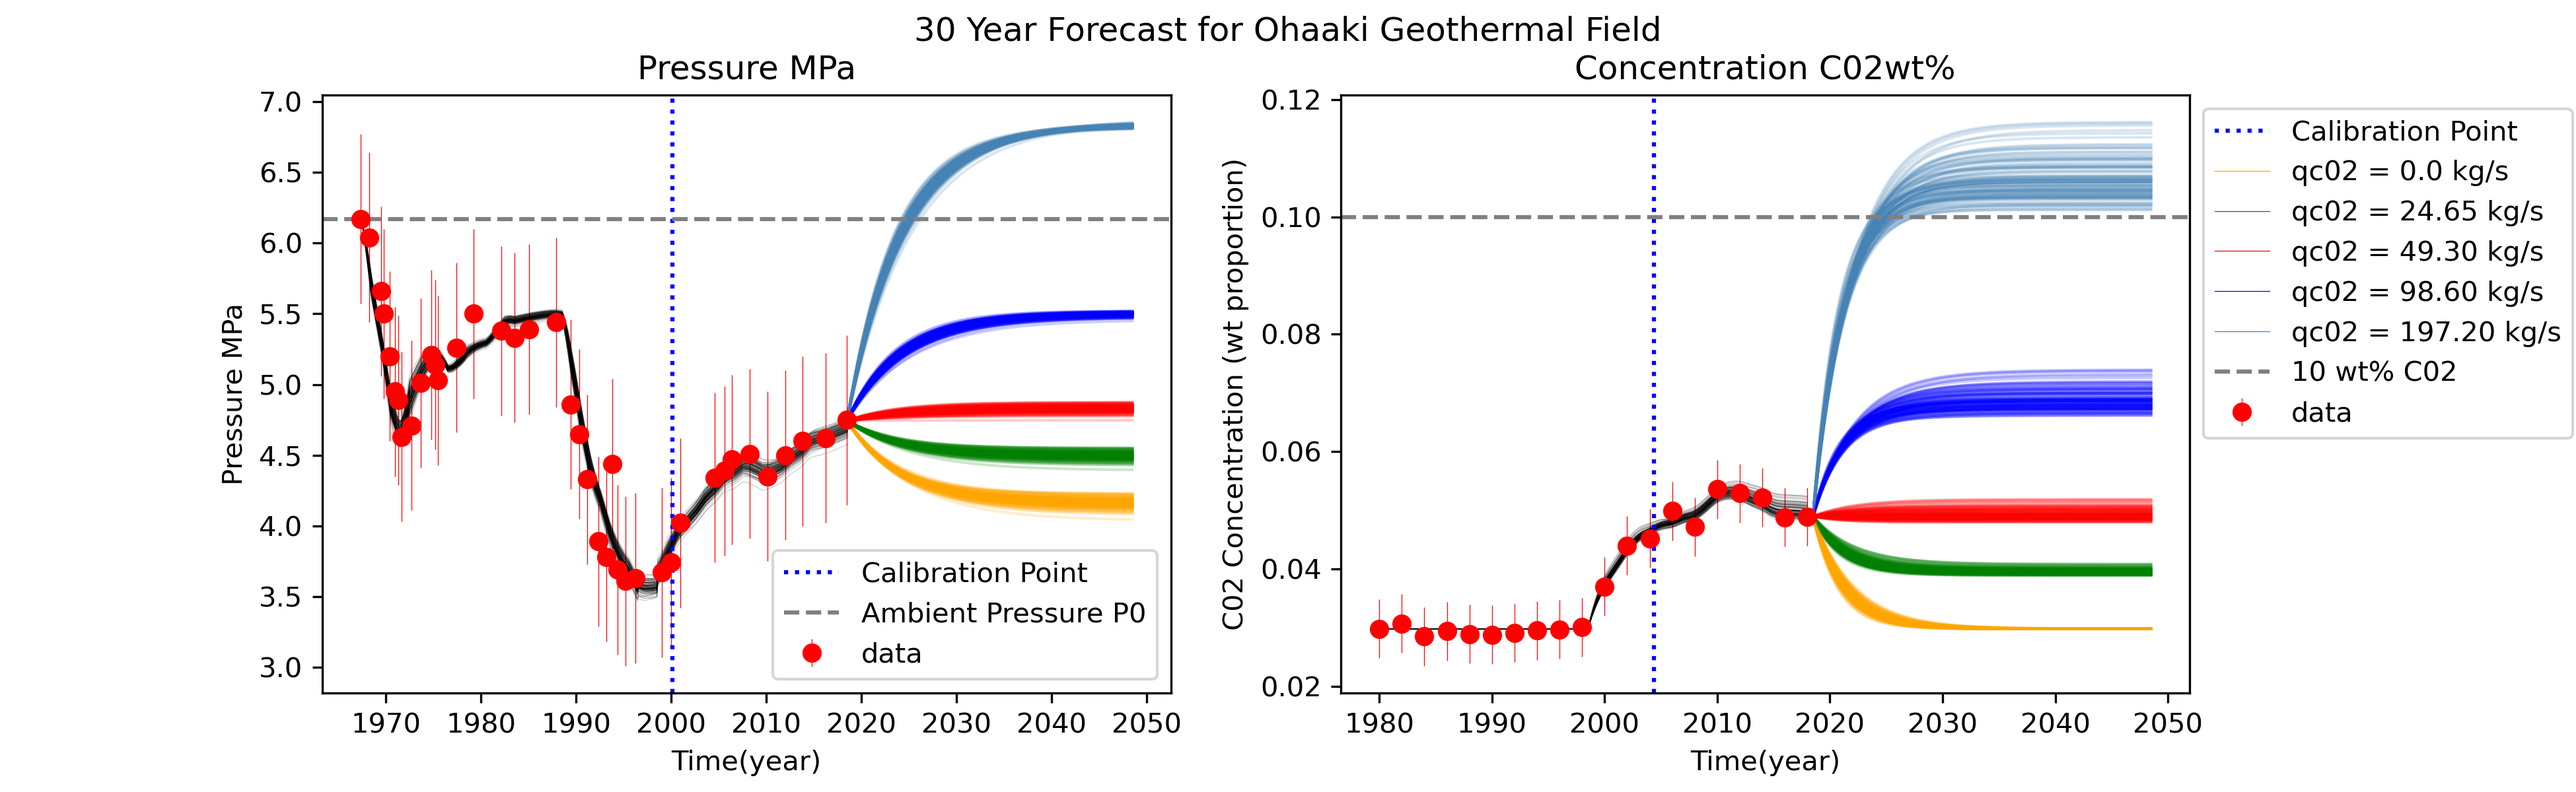
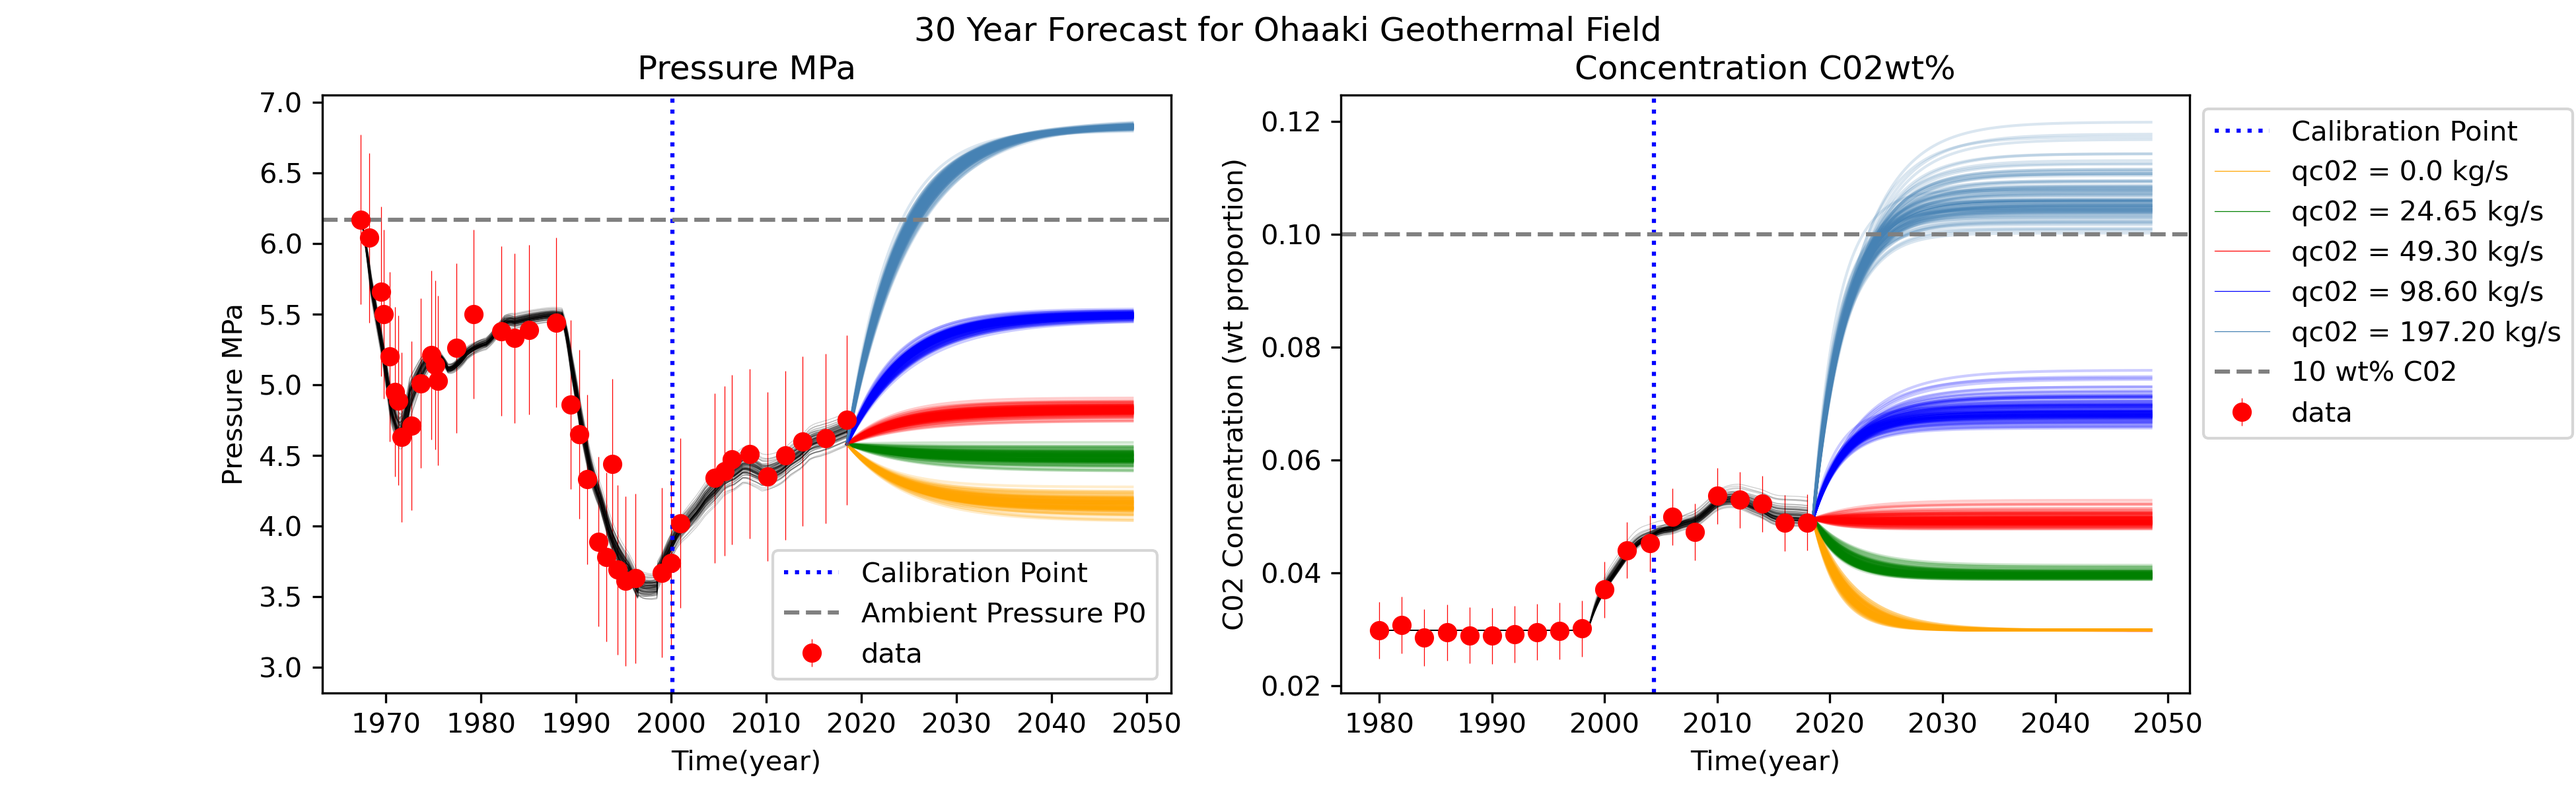
change from t distribution to normal distrbution for uncertainty interval

diff --git a/project_1/main.py b/project_1/main.py
@@ -602,8 +602,8 @@ def plot_uncertainty_forecast(samples):
             ax2.plot(t, c, color=colours[i], alpha= 0.2,linewidth = 1)
         
     for i in range(5):
-        pUncertaintyRange[i][0], pUncertaintyRange[i][1] = st.norm.interval(alpha=0.95, df=len(pValues[i])-1, loc=np.mean(pValues[i]), scale=st.sem(pValues[i])) 
-        cUncertaintyRange[i][0], cUncertaintyRange[i][1] = st.norm.interval(alpha=0.95, df=len(cValues[i])-1, loc=np.mean(cValues[i]), scale=st.sem(cValues[i]))
+        pUncertaintyRange[i][0], pUncertaintyRange[i][1] = st.norm.interval(alpha=0.95, loc=np.mean(pValues[i]), scale=st.sem(pValues[i])) 
+        cUncertaintyRange[i][0], cUncertaintyRange[i][1] = st.norm.interval(alpha=0.95, loc=np.mean(cValues[i]), scale=st.sem(cValues[i]))
 
         
     print(pUncertaintyRange)
